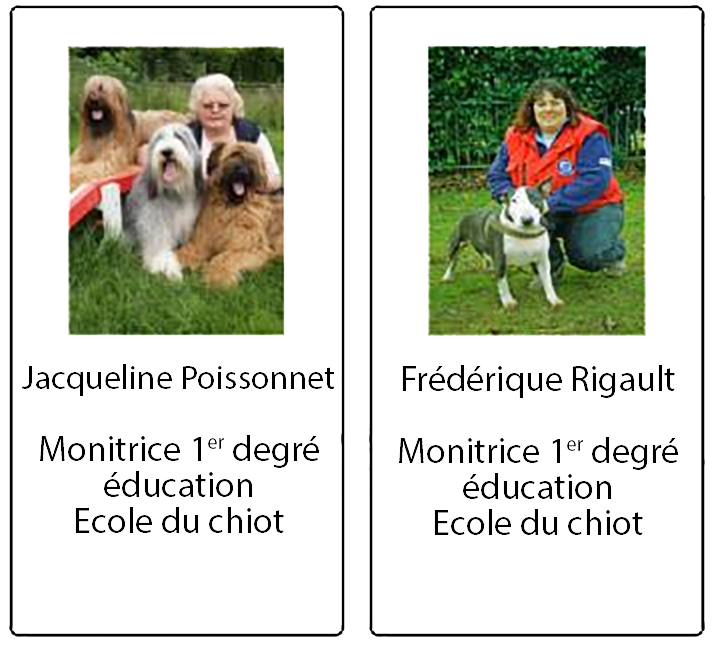
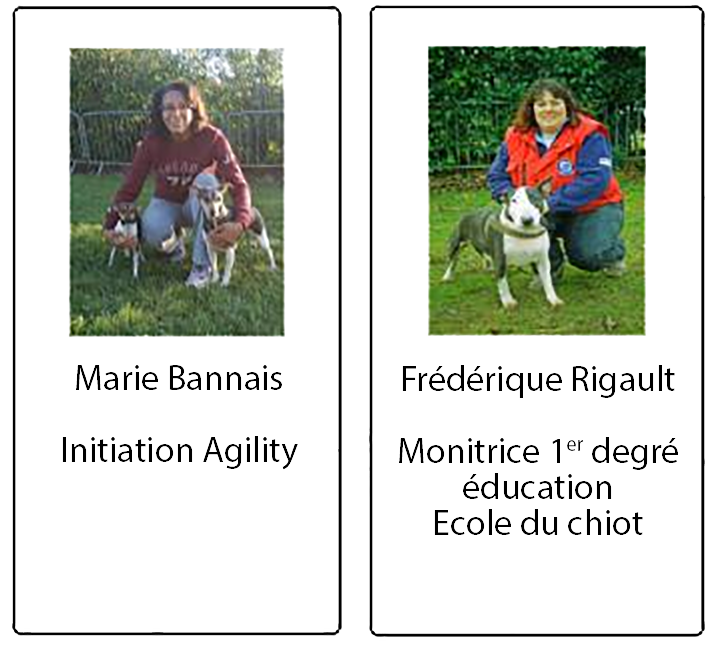
nouvel encadrement

Changed region(s): [[0.0, 0.0, 0.4909, 0.9756], [0.0921, 0.061, 0.3989, 0.5183]]

diff --git a/_posts/2023-10-22-encadrement.md b/_posts/2023-10-22-encadrement.md
@@ -35,12 +35,12 @@ encadrement:
   - image_path: /assets/images/encadrement/encadrement6.png
     alt: "encadrement 6"
     title: "encadrement"
-  - image_path: /assets/images/encadrement/encadrement7.png
+<!--   - image_path: /assets/images/encadrement/encadrement7.png
     alt: "encadrement 7"
     title: "encadrement"
   - image_path: /assets/images/encadrement/encadrement8.png
     alt: "encadrement 8"
-    title: "encadrement"
+    title: "encadrement" -->
 ---
 
 {% include gallery id="encadrement" layout="half" %}
